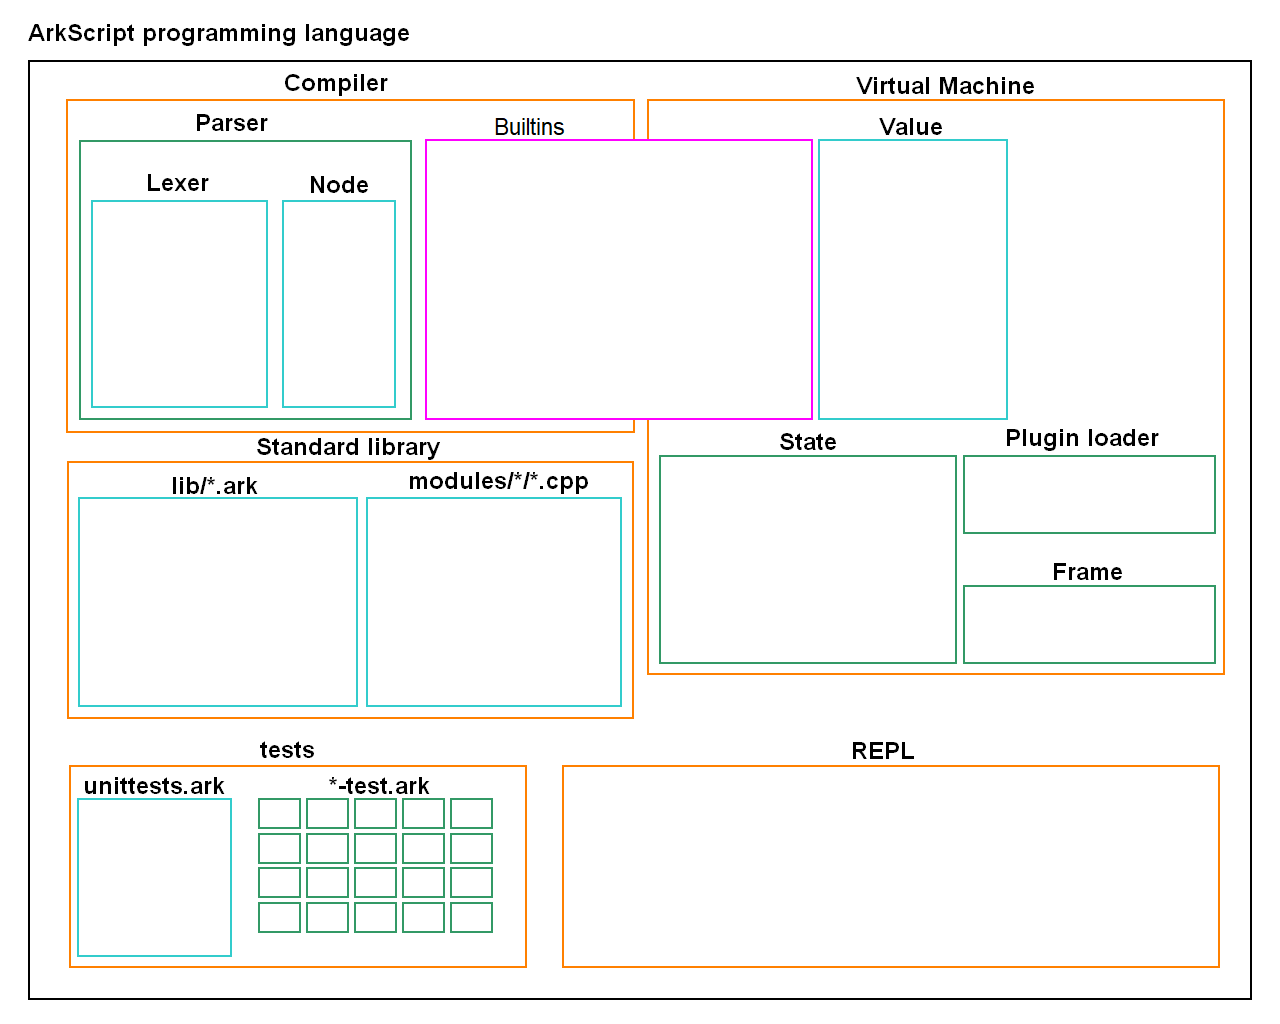
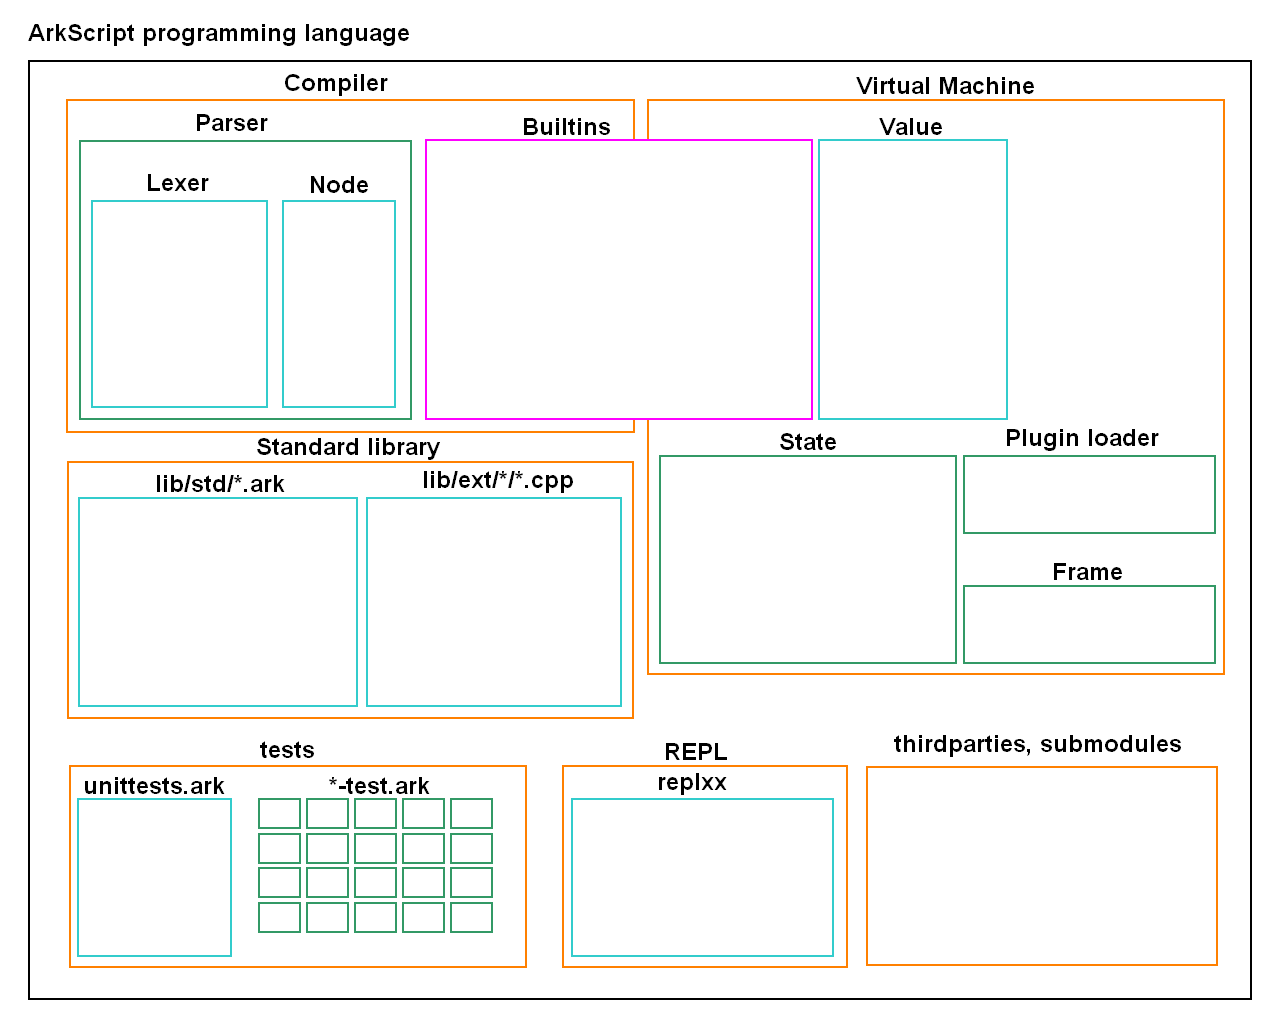
updating website

diff --git a/_layouts/default.html b/_layouts/default.html
@@ -12,7 +12,7 @@
     <![endif]-->
 
     <style>
-      @media print, screen and (min-width: 960px) {
+      @media print, screen and (min-width: 1320px) {
         .wrapper {
           width: 80% !important;
         }

diff --git a/index.md b/index.md
@@ -26,59 +26,58 @@ ArkScript is
 * a Lisp-like, but with less parentheses: `[...]` is expanded to `(list ...)` and `{}` to `(begin ...)`. More shorthands will come in the future.
 * extensible: it is very easy to create a C++ module to use in the language
 
-Also:
-* it has a REPL
-* it has a growing standard library, composed of ArkScript (under `lib/`) and C++ (under `modules/`)
-* it has a lot of unit tests, which are ran before every release to ensure everything work as intended
+Also it has:
+* a REPL with autocompletion and coloration
+* a growing standard library, composed of ArkScript (under `lib/std/`) and C++ (under `lib/ext/`)
+* a lot of unit tests, which are ran before every release to ensure everything work as intended
+* docker images:
+    * [stable](https://hub.docker.com/r/arkscript/stable)
+    * [nightly](https://hub.docker.com/r/arkscript/nightly)
 
 ## Examples
 
 ### Fibonacci suite
 
 ```clojure
-{
-    (let fibo (fun (n)
-        (if (< n 2)
-            n
-            (+ (fibo (- n 1)) (fibo (- n 2))))))
+(let fibo (fun (n)
+    (if (< n 2)
+        n
+        (+ (fibo (- n 1)) (fibo (- n 2))))))
 
-    (print (fibo 28))  # display 317811
-}
+(print (fibo 28))  # display 317811
 ```
 
 ## More or less game
 
 ```clojure
-{
-    # more or less game
-    (print "More or less game!")
+# more or less game
+(print "More or less game!")
 
-    (import "random.bin")
-    (import "Math/Arithmetic.ark")
+(import "random.arkm")
+(import "Math.ark")
 
-    (let number (mod (abs (random)) 10000))
-    (mut value 0)
-    (mut essais 0)
+(let number (mod (abs (random)) 10000))
+(mut value 0)
+(mut essais 0)
 
-    (mut continue true)
+(mut continue true)
 
-    (while continue {
-        (set value (toNumber (input "Input a numeric value: ")))
+(while continue {
+    (set value (toNumber (input "Input a numeric value: ")))
 
-        (if (< value number)
+    (if (< value number)
+        # then
+        (print "More!")
+        # else
+        (if (= value number)
             # then
-            (print "More!")
+            { (print "Bingo!") (set continue false) }
             # else
-            (if (= value number)
-                # then
-                { (print "Bingo!") (set continue false) }
-                # else
-                (print "Less!")))
+            (print "Less!")))
 
-        (set essais (+ 1 essais))})
+    (set essais (+ 1 essais))})
 
-    (print "You won in " essais " tries")
-}
+(print "You won in " essais " tries")
 ```
 
 More examples are available in the folder `examples/`.
@@ -116,8 +115,12 @@ Who worked on
     * [@FrenchMasterSword](https://github.com/FrenchMasterSword)
 * the logo
     * [Ma15fo43](https://github.com/Ma15fo43)
+* the docker integration
+    * [@yardenshoham](https://github.com/yardenshoham)
 
 ### Contributing to the ArkScript standard library
+
+See [Coding guidelines](https://github.com/ArkScript-lang/Ark/wiki/Coding-guidelines#coding-in-ark) if you want to write ArkScript for the library (see folder `lib/std/`).
 
 For performance reasons, some functions might be written in C++, in `include/Ark/Builtins/Builtins.hpp` and `src/Builtins/`.
 
@@ -146,7 +149,7 @@ Libs already included:
 ~/Ark$ cd Ark
 ~/Ark$ git submodule update --init --recursive
 # building Ark
-~/Ark$ cmake -H. -Bbuild -DCMAKE_BUILD_TYPE=Release -DARK_BUILD_EXE=1
+~/Ark$ cmake -H. -Bbuild -DCMAKE_BUILD_TYPE=Release -DARK_BUILD_EXE=On
 ~/Ark$ cmake --build build
 # installing Ark (might need administrative privileges)
 ~/Ark$ cmake --install build --config Release
@@ -156,22 +159,23 @@ DESCRIPTION
         ArkScript programming language
 
 SYNOPSIS
-        Ark -h, --help
+        Ark -h
         Ark --version
         Ark --dev-info
-        Ark ((<file> [-c]) | -r) [-(d|bcr)] [-L <lib_dir>] [-f(fac|no-fac)] [-f(aitap|no-aitap)]
+        Ark -r
+        Ark <file> [-c] [[-d]|-bcr] [-L <lib_dir>] [-f(fac|no-fac)] [-f(aitap|no-aitap)]
 
 OPTIONS
         -h, --help                  Display this message
         --version                   Display ArkScript version and exit
         --dev-info                  Display development information and exit
-        -c, --compile               Compile the given program to bytecode, but do not run
         -r, --repl                  Run the ArkScript REPL
+        -c, --compile               Compile the given program to bytecode, but do not run
         -d, --debug...              Increase debug level (default: 0)
         -bcr, --bytecode-reader     Launch the bytecode reader
         -L, --lib                   Set the location of the ArkScript standard library
         -f(fac|no-fac)              Toggle function arity checks (default: ON)
-        -f(aitap|no-aitap)          Authorize invalid token after `(' (default: OFF). When ON, only display a warning
+        -f(aitap|no-aitap)          Authorize invalid token after `(' (default: OFF). When ON, only display a warning      
 
 LICENSE
         Mozilla Public License 2.0

diff --git a/documentation.md b/documentation.md
@@ -1,9 +1,15 @@
 # Documentation
 
+## Building and installing
+
+*Nota bene*: the project was made to work only on 64 bits computers, meaning that it can not (and will never) work on 32 bits computers. 64 bits CPU appeared in the 1990s and allow developpers to use more RAM (from a few GB to thousands of TB), while 32 bits CPU appeared in 1960s, they shall now be replaced.
+
+* [Building and installing ArkScript](tutorials/building.html#from-source)
+* [Installing from a release](tutorials/building.html#from-a-release)
+
 ## Tutorials
 
 * [Learning ArkScript: the basics](tutorials/basics.html)
-* [Building and installing ArkScript](tutorials/building.html)
 * [Embedding ArkScript in a C++ project](tutorials/embedding.html)
 
 ## Standard library documentation
